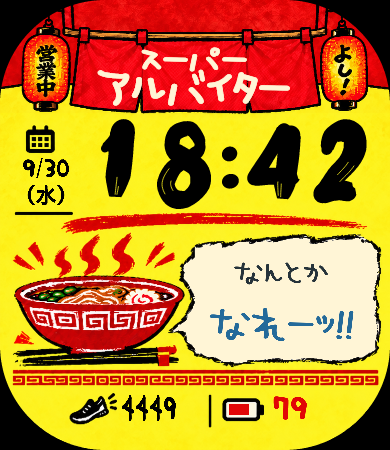
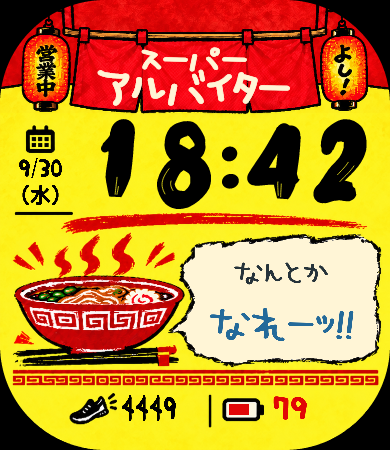
SUPER ARBEITER の日付と曜日をカレンダーのアイコンの中央にそろえる
- 日付と曜日の枠を、アイコンの中央（x=40.5）にそろえる
- 日付の数字を字ごとの幅の画像にし（細い「1」は狭く）、字の左右の余白をそろえる
- 全月日・全曜日で、字の中央がアイコンの中央から 0.5px 以内に収まることをテストにする

Claude-Session: https://claude.ai/code/session_0148EEt9eWWYJUbRqsx6i77h

Changed region(s): [[0.0308, 0.3422, 0.1846, 0.4667]]

diff --git a/faces/super-arbeiter/watchface/layout.js b/faces/super-arbeiter/watchface/layout.js
@@ -20,10 +20,18 @@ export const NOTIFICATION = Object.freeze({ x: 170, y: 0, w: 50, h: 46 })
 export const DIGITS = Object.freeze({
   time: { w: 66, h: 94, colonW: 24, gap: 0 },
   aod: { w: 48, h: 76, colonW: 17, gap: 0 },
-  date: { w: 14, h: 22, slashW: 9, gap: -1 },
+  // 日付：字の幅に合わせた画像の幅（細い「1」は狭く）。字は画像の中央に置くので、並びの中央＝字の中央になる
+  date: { w: 13, h: 22, slashW: 9, gap: -1, widths: { 1: 10 } },
   steps: { w: 14, h: 28, gap: 0 },
   battery: { w: 18, h: 28, gap: 0 },
 })
+
+// 1文字の画像の幅（「:」「/」と、字ごとの幅 widths があればそれを使う）
+export function charWidth(spec, ch) {
+  if (ch === ':') return spec.colonW
+  if (ch === '/') return spec.slashW
+  return (spec.widths && spec.widths[ch]) || spec.w
+}
 
 // 時刻の数字列の幅（2桁の時：4桁＋「:」）
 export function timeWidth(spec = DIGITS.time, hourDigits = 2) {
@@ -33,9 +41,9 @@ export function timeWidth(spec = DIGITS.time, hourDigits = 2) {
 export const LAYOUT = Object.freeze({
   // 時刻：この範囲の中央にそろえる（完成図の x=83〜374、y=117〜211）
   time: { x: 83, y: 117, w: 291 },
-  // 日付（中央ぞろえ）と曜日。カレンダーのアイコン（x=26〜54、y=126〜152）の下
-  date: { x: 14, y: 157, w: 64, h: 22 },
-  weekday: { x: 14, y: 184, w: 64, h: 22 },
+  // 日付と曜日：カレンダーのアイコン（x=26〜54、y=126〜152）の真下。アイコンの中央 x=40.5 にそろえる
+  date: { x: 12, y: 157, w: 57, h: 22 },
+  weekday: { x: 12, y: 184, w: 57, h: 22 },
   // セリフの札（174×116、下地は透明）。吹き出しの内側（測った値 x=183〜377、y=244〜356）
   quote: { x: 195, y: 241, w: 174, h: 116 },
   // 下の段：くつ（x=40〜116）の右に歩数、区切り（x=209〜225）、電池の枠（x=223〜263）の右に残り

diff --git a/faces/super-arbeiter/watchface/index.js b/faces/super-arbeiter/watchface/index.js
@@ -1,7 +1,7 @@
 import ui from '@zos/ui'
 import { Battery, Time, TIME_HOUR_FORMAT_12 } from '@zos/sensor'
 import { log } from '@zos/utils'
-import { DIGITS, LAYOUT, SCREEN } from './layout.js'
+import { charWidth, DIGITS, LAYOUT, SCREEN } from './layout.js'
 import { QUOTES, nextQuoteIndex } from './quotes.js'
 import { WEEKDAYS_JA } from './glyphs.js'
 import { COLORS } from './theme.js'
@@ -44,7 +44,7 @@ function image(rect, src) {
   return ui.createWidget(ui.widget.IMG, { ...rect, src, show_level: NORMAL })
 }
 
-const dateWidth = (ch) => (ch === '/' ? DIGITS.date.slashW : DIGITS.date.w)
+const dateWidth = (ch) => charWidth(DIGITS.date, ch)
 const dateGlyph = (ch) => `images/digits/date/${ch === '/' ? 'slash' : ch}.png`
 
 WatchFace({

diff --git a/docs/CURRENT_TASK.md b/docs/CURRENT_TASK.md
@@ -1,6 +1,6 @@
 # いまの状態（CURRENT_TASK）
 
-最終更新：2026-09-30（Claude・KAMONT の紋ガチャ）。**作業を始める時・終えた時に更新する。**
+最終更新：2026-10-01（Claude・SUPER ARBEITER の日付のセンタリング）。**作業を始める時・終えた時に更新する。**
 
 ## いまの目標
 
@@ -14,18 +14,19 @@
 
 ## 次のタスク（上から優先）
 
-1. SUPER ARBEITER（最終採用案・ちかフォント反映後）を実機 Bip 6 でもう一度確かめる（ユーザーの PC で `npm run preview -- super-arbeiter`）。通知アイコンが暖簾の上の赤い余白に収まるか、セリフが読めるか、画面が点くたびにセリフが替わるか（腕を上げた時・AOD から戻った時）、通常と AOD の切り替え、歩数・電池の数字と電池の塗りの更新を確かめる
-2. SUPER ARBEITER の `appId`（仮の値 `20260930`）で実機に入れられるか確かめる。だめなら Zepp Console で新しく作った値にする
-3. Pixel Wayfarer を実機 Bip 6（または Simulator）で確認する：通常表示・AOD・12/24時間・摂氏/華氏・天気の同期・設定の変更（ユーザーの PC と時計が必要）
-4. Pixel Wayfarer の気温の表示を実機で確認する：`faces/pixel-wayfarer/watchface/index.js` で、文字の仮表示（`L --°` など）と数字の画像（`TEXT_IMG`）が同じ場所に重ねて置かれている。重なって見えないか見る
-5. Pixel Wayfarer のストア提出（`faces/pixel-wayfarer/README.md`「公開・提出」）
-6. KAMONT の紋ガチャ（9種類）をユーザーに見てもらい、直す。実機で、画面が点くたびに紋とタイトルが替わるか・レアの見え方を確かめる
-7. KAMONT の残りを実機 Bip 6 で確かめる：AOD・12時間表示・華氏・心拍が無い時の「--」・電池が少ない時の塗り（通常表示・通知アイコン・四隅・気温・歩数・心拍・電池の数字は確認済み）
-8. 「KAMONT」の商標をユーザーが J-PlatPat で確かめる（ウェブ検索では、家具・薬など別の分野の「Kamont」だけが見つかった）
-9. KAMONT のストア申請：ユーザーが Mac で `.zab` をビルドして Zepp Console（appId 1129405）にアップロードし、`faces/kamon/docs/STORE_LISTING.md` の文面と `docs/store/` の画像で申請する
+1. SUPER ARBEITER の `appId`（仮の値 `20260930`）で実機に入れられるか確かめる。だめなら Zepp Console で新しく作った値にする
+2. Pixel Wayfarer を実機 Bip 6（または Simulator）で確認する：通常表示・AOD・12/24時間・摂氏/華氏・天気の同期・設定の変更（ユーザーの PC と時計が必要）
+3. Pixel Wayfarer の気温の表示を実機で確認する：`faces/pixel-wayfarer/watchface/index.js` で、文字の仮表示（`L --°` など）と数字の画像（`TEXT_IMG`）が同じ場所に重ねて置かれている。重なって見えないか見る
+4. Pixel Wayfarer のストア提出（`faces/pixel-wayfarer/README.md`「公開・提出」）
+5. KAMONT の紋ガチャ（9種類）をユーザーに見てもらい、直す。実機で、画面が点くたびに紋とタイトルが替わるか・レアの見え方を確かめる
+6. KAMONT の残りを実機 Bip 6 で確かめる：AOD・12時間表示・華氏・心拍が無い時の「--」・電池が少ない時の塗り（通常表示・通知アイコン・四隅・気温・歩数・心拍・電池の数字は確認済み）
+7. 「KAMONT」の商標をユーザーが J-PlatPat で確かめる（ウェブ検索では、家具・薬など別の分野の「Kamont」だけが見つかった）
+8. KAMONT のストア申請：ユーザーが Mac で `.zab` をビルドして Zepp Console（appId 1129405）にアップロードし、`faces/kamon/docs/STORE_LISTING.md` の文面と `docs/store/` の画像で申請する
 
 ## 最近終わったこと（新しい順）
 
+- 2026-10-01 ユーザーの指摘で、SUPER ARBEITER の日付と曜日をカレンダーのアイコンの真下（中央 x=40.5）にそろえた。字ごとの幅の画像にし、全月日・全曜日で 0.5px 以内に収まることをテストにした（Claude）
+- 2026-09-30 SUPER ARBEITER（最終採用案・ちかフォント反映後）を、ユーザーが実機で確認した（ユーザー）
 - 2026-09-30 ユーザーが Zepp Console で KAMONT を作成（appId `1129405`）。`app.json` に入れ、版を 1.0.0 にした。ストア申請用の文面（`faces/kamon/docs/STORE_LISTING.md`）と、四隅が透明なスクリーンショット5枚（`faces/kamon/docs/store/`）を用意した（Claude）
 - 2026-09-30 ユーザーの希望で、名前を「KAMONT」（家紋と／KAMON + Time）にし、画面が点くたびに紋9種類（うち金のレア1）と英単語のタイトルがランダムに替わる「紋ガチャ」にした。直前と同じ紋は出さない。レアは約5%（Claude）
 - 2026-09-30 ユーザーの PC で KAMON をビルドして動かし、画面写真で確かめた：時刻・日付・気温・歩数・心拍・電池の数字が出る。通知アイコンは題字の上に収まり、重ならない。下の段は四隅で切れていない。見た目もユーザーの OK が出た（Claude）

diff --git a/docs/UI_RULES.md b/docs/UI_RULES.md
@@ -67,6 +67,7 @@
 - 並び（上から）：通知アイコンのための赤い余白と暖簾「スーパー／アルバイター」（左右に提灯）→ 左に日付と曜日・右に時刻（いちばん大きく）→ 左に丼・右に吹き出しのセリフ → 下の段（くつ 歩数｜電池 残り）
 - 下の段にはラベル（STEPS・HP）や単位を出さない。アイコンと数字と区切りだけ。BREAK は出さない
 - 曜日は日本語で `(日)`〜`(土)`
+- 日付と曜日は、カレンダーのアイコンの中央（x=40.5）にそろえる。日付の数字は字ごとの幅の画像（`DIGITS.date.widths`）にし、字の左右の余白をそろえる。全月日・全曜日で 0.5px 以内（テストで確かめている）
 - 通知アイコン：画面の上のまん中（`layout.js` の `NOTIFICATION`、y 0〜46）に文字を置かない。通知アイコンは背景に描き込まない（確認図 `docs/check-notification.png` は別の重ね絵）
 - セリフ：`watchface/quotes.js` の7枚を1枚だけ出し、画面が点くたびに順番に次の札へ替える（省電力のため、画面が消えている間は替えない）。7枚を同時に描かない。札は吹き出しの黒い枠を隠さない（下地は透明。テストで確かめている）。縦横を別の倍率で伸ばさない。画面に名前や出典を出さない
 - 動かない物（暖簾・提灯・カレンダー・丼・吹き出し・雷紋・くつ・区切り・電池の枠）は、背景の1枚の絵にまとめる。別の部品で二重に描かない
